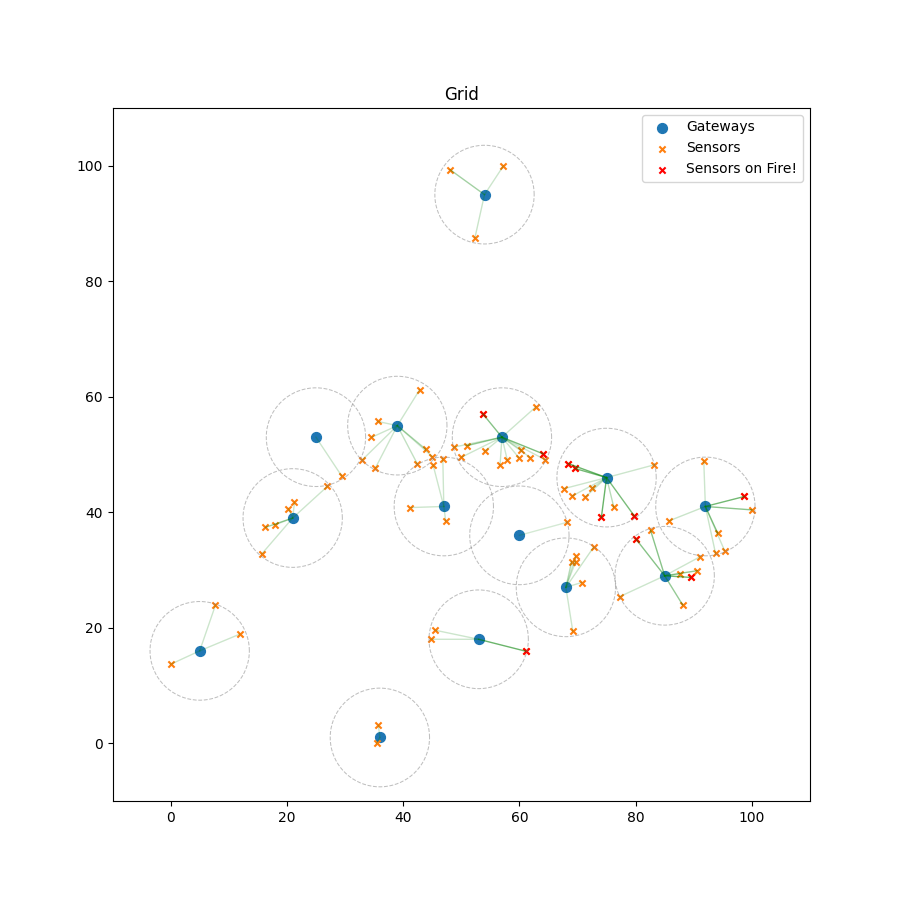
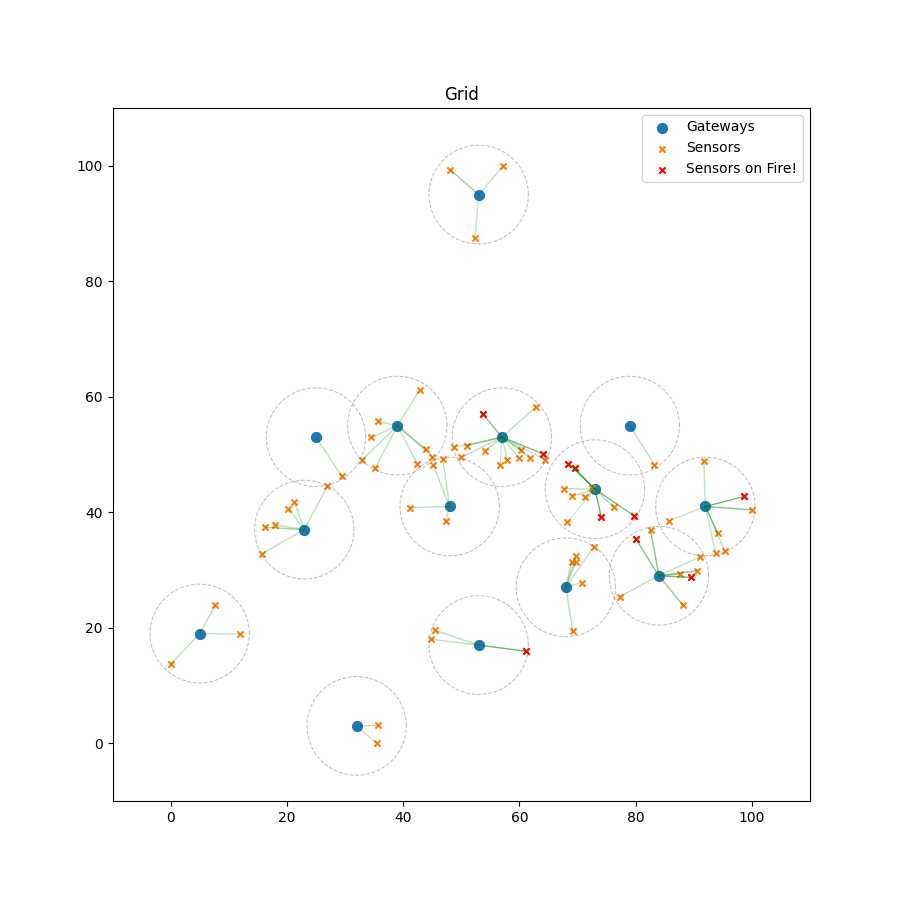
why don't use float?

diff --git a/structs/node.py b/structs/node.py
@@ -19,10 +19,11 @@ def calculate_distance(point1:tuple, point2:tuple) -> float:
 
 
 class Node:
-    def __init__(self, id:str, x:int, y:int) -> None:
+    def __init__(self, id:str, x:float, y:float, z:float) -> None:
         self.__id = id
         self.__x = x
         self.__y = y
+        self.__z = z
         self.__covered_nodes = set()
 
     def find_covered_nodes(self, node_set:set, distance_threshold:float) -> None:
@@ -36,25 +37,25 @@ class Node:
     def get_id(self) -> str:
         return self.__id
 
-    def get_x(self) -> int:
+    def get_x(self) -> float:
         return self.__x
 
-    def get_y(self) -> int:
+    def get_y(self) -> float:
         return self.__y
 
     def get_covered_nodes(self) -> set:
         return self.__covered_nodes
 
-    def set_x(self, x:int) -> None:
+    def set_x(self, x:float) -> None:
         self.__x = x
 
-    def set_y(self, y:int) -> None:
+    def set_y(self, y:float) -> None:
         self.__y = y
 
 
 class Sensor(Node):
-    def __init__(self, id:str, x:int, y:int, score:float=0.0) -> None:
-        super().__init__(id, x, y)
+    def __init__(self, id:str, x:float, y:float, z:float, score:float=0.0) -> None:
+        super().__init__(id, x, y, z)
         self.__score = score
 
     def __str__(self) -> str:
@@ -75,8 +76,8 @@ class Sensor(Node):
 
 
 class Gateway(Node):
-    def __init__(self, id:str, x:int, y:int) -> None:
-        super().__init__(id, x, y)
+    def __init__(self, id:str, x:float, y:float, z:float) -> None:
+        super().__init__(id, x, y, z)
 
     def __str__(self) -> str:
         total_score, average_score = self.__calc_scores()
@@ -96,7 +97,7 @@ class Gateway(Node):
     def get_covered_sensors(self) -> set:
         return self.get_covered_nodes()
 
-    def get_total_score(self) -> int:
+    def get_total_score(self) -> float:
         return self.__calc_scores()[0]
 
     def get_average_score(self) -> float:

diff --git a/main.py b/main.py
@@ -11,7 +11,7 @@ from functions import visualizer
 parser = argparse.ArgumentParser(description='ILP Sensor Clustering - Clustering of sensors using Integer Linear Programming concept')
 parser.add_argument('--size', required=False, default=100, type=int)
 parser.add_argument('--sensor_count', required=False, default=75, type=int)
-parser.add_argument('--distance_threshold', required=False, default=42, type=int)
+parser.add_argument('--distance_threshold', required=False, default=10, type=int)
 
 
 args = vars(parser.parse_args())
@@ -26,7 +26,7 @@ if __name__=='__main__':
     #grid = Grid(GRID_SIZE)
     #sensor_set = preprocessing.generate_random_sensors(GRID_SIZE, SENSOR_COUNT, MAX_SCORE, MIN_SCORE)
     
-    # ___Initializing Through File___
+    # ___Initializing From File___
     grid = Grid(GRID_SIZE)
     sensor_set = preprocessing.init_sensors_from_file('docs/input/sensor_locations.tsv')
     preprocessing.set_sensor_scores(sensor_set, 'docs/input/sensor_placements.csv')

diff --git a/functions/preprocessing.py b/functions/preprocessing.py
@@ -61,7 +61,7 @@ def init_sensors_from_file(file_path:str) -> set:
             sensor_id = row[0]
             latitude = row[1] # for example 41°47'30.7"
             longitude = row[2] # for example 27°16'37.9"
-            #elevation = row[3]
+            elevation = row[3]
 
             long_as_float = helpers.convert_to_float(
                 raw_data=longitude,
@@ -79,7 +79,8 @@ def init_sensors_from_file(file_path:str) -> set:
                 id=sensor_id,
                 x=long_as_float,
                 y=lat_as_float,
-                score=0.2)
+                z=elevation,
+                score=0.25)
 
             sensor_set.add(new_sensor)
 

diff --git a/functions/clustering.py b/functions/clustering.py
@@ -117,7 +117,8 @@ def optimize_model(model:mip.model.Model, grid:Grid, gateway_locations:list) -> 
                     new_gateway = Gateway(
                         id=str(gateway_id),
                         x=gateway_x,
-                        y=gateway_y)
+                        y=gateway_y,
+                        z=0)
                     gateway_set.add(new_gateway)
                     gateway_id += 1      
     
